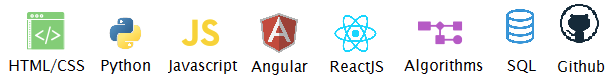
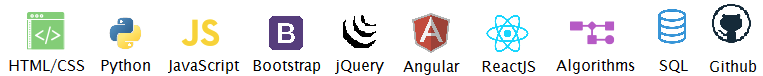
final draft

diff --git a/index.html b/index.html
@@ -1,51 +1,62 @@
 <!DOCTYPE html>
 <html lang="en">
-  <head>
-    <title>Kalyan Yalamanchi - Software Developer</title>
-    <link  type="text/css" rel="stylesheet" href="css/style.css">
-    <link href="https://fonts.googleapis.com/css?family=Arimo" rel="stylesheet">
-    <meta name="viewport" content="width=device-width, initial-scale=1">
-    <link rel="stylesheet" href="prism/prism-atom-dark.css" type="text/css" media="screen" />
-    <script type="text/javascript" src="prism/prism.js"></script>
-  </head>
-  <body>
-    <div class="about-container">
-      <div class="about">
-        <img src="images/me.jpg" alt="Kalyan Yalamanchi's photo" class="face">
-        <h1>Kalyan Yalamanchi</h1>
-        <h2>Software Developer</h2>
-        <hr class = "separator"/>
-        <p class="summary">A chemical engineer performing research turned software developer writing code.  Graduated from Princeton University with a BSE in Chemical Engineering and several years ago decided to change careers to pursue my passion in computer science.  My engineering background combined with self-taught programming knowledge makes me a perfect fit for an entry-level position.
-        </p>
-      </div>
-    </div>
-    <h3>Code Examples</h3>
-    <hr class ="title-break">
-    
-    <div class="box">
-      <h4>Temperature Conversion</h4>
-      <p class="code-text">
-        This ruby program will prompt the user for a temperature
-        in degrees Celsius and let the user know what the
-        corresponding temperature is in Fahrenheit.
+
+<head>
+  <title>Kalyan Yalamanchi - Software Developer</title>
+  <link type="text/css" rel="stylesheet" href="css/style.css">
+  <link href="https://fonts.googleapis.com/css?family=Arimo" rel="stylesheet">
+  <meta name="viewport" content="width=device-width, initial-scale=1">
+  <meta name="description" content="Kalyan Yalamanchi is a professional software developer specializing in front-end development.  He has experience with HTML/CSS, JavaScript, Python, jQuery, Bootstrap, React, and Angular along with SQL and Git knowledge.">
+  <link rel="stylesheet" href="prism/prism-atom-dark.css" type="text/css" media="screen" />
+  <script type="text/javascript" src="prism/prism.js"></script>
+  <script src="https://use.fontawesome.com/b1fc7cf11e.js"></script>
+</head>
+
+<body>
+  <div class="about-container">
+    <ul>
+      <li><a href="#about-me" class="nav-link">About</a></li>
+      <li><a href="#code-samples" class="nav-link">Code Samples</a></li>
+      <li><a href="#web-apps" class="nav-link">Web Apps</a></li>
+      <li><a href="#skills-tools" class="nav-link">Skills & Tools</a></li>
+      <li class="hire-me"><a href="#contact-me" class="nav-link">Hire Me</a></li>
+    </ul>
+    <div id="about-me" class="about">
+      <img src="images/me.jpg" alt="Kalyan Yalamanchi's photo" class="face">
+      <h1>Kalyan Yalamanchi</h1>
+      <h2>Software Developer</h2>
+      <hr class="separator" />
+      <p class="summary">
+        A chemical engineer performing research turned software developer writing code. Graduated from Princeton University with a BSE in Chemical Engineering and several years ago decided to change careers to pursue my passion in computer science. My engineering
+        background combined with self-taught programming knowledge makes me a perfect fit for an entry-level position.
       </p>
     </div>
-    <div class="box">
-      <pre><code class="language-javascript">
+  </div>
+
+  <h3 id="code-samples">Code Examples</h3>
+  <hr class="title-break">
+  <div class="box">
+    <h4>Temperature Conversion</h4>
+    <p class="code-text">
+      This ruby program will prompt the user for a temperature in degrees Celsius and let the user know what the corresponding temperature is in Fahrenheit.
+    </p>
+  </div>
+  <div class="box">
+    <pre><code class="language-javascript">
       var n = 0;
       while (n &lt; 10) {
         console.log(&quot;Hello, &quot; + n&quot;);
         n += 1;
       } </code></pre>
-    </div>
-    <br class="clear" />
-    
-    <div class="box">
-      <pre><code class="language-javascript"> 
+  </div>
+  <br class="clear" />
+
+  <div class="box">
+    <pre><code class="language-javascript">
       function findPrimes(n) {
         var primes = new Array(n+1).fill(true);
         var max = Math.sqrt(n);
-        
+
         for (i = 2; i &lt;= max; i++) {
           if (primes[i]) {
             for (j = i*i; j &lt;= n; j += i) {
@@ -62,23 +73,24 @@
         return list;
       }
       </code></pre>
-    </div>
-    <div class="box">
-      <h4>Prime Numbers</h4>
-      <p class="code-text">
-        This Javascript program returns an array of prime numbers up through an integer input n, using the Sieve of Eratosthenes algorithm.
-      </p>
-    </div>
-    <br class="clear" />
-    
-    <div class="box">
-      <h4>FizzBuzz</h4>
-      <p class="code-text">
-      Javascript program for the standard FizzBuzz interview question: Write a program that prints the numbers from 1 to n. But for multiples of three print "Fizz" instead of the number and for the multiples of five print "Buzz". For numbers which are multiples of both three and five print "FizzBuzz".
-      </p>
-    </div>    
-    <div class="box">
-      <pre><code class="language-javascript"> 
+  </div>
+  <div class="box">
+    <h4>Prime Numbers</h4>
+    <p class="code-text">
+      This Javascript program returns an array of prime numbers up through an integer input n, using the Sieve of Eratosthenes algorithm.
+    </p>
+  </div>
+  <br class="clear" />
+
+  <div class="box">
+    <h4>FizzBuzz</h4>
+    <p class="code-text">
+      Javascript program for the standard FizzBuzz interview question: Write a program that prints the numbers from 1 to n. But for multiples of three print "Fizz" instead of the number and for the multiples of five print "Buzz". For numbers which are multiples
+      of both three and five print "FizzBuzz".
+    </p>
+  </div>
+  <div class="box">
+    <pre><code class="language-javascript">
       var fizzBuzz = function(n) {
         var output;
         for (var i = 1; i &lt;= n; i ++)
@@ -93,15 +105,62 @@
         }
       };
       </code></pre>
-    </div>
-    <br class="clear" />
-    
-    <h3>Skills & Tools</h3>
-    <hr class="title-break" />
-    <p class="skills">
+  </div>
+  <br class="clear" />
+
+  <h3 id="web-apps">Web Apps</h3>
+  <hr class="title-break" />
+  <div class="box">
+    <h4>App #1</h4>
+    <a href="https://placeholder.com"><img src="http://via.placeholder.com/350x150" class="full-width" /></a>
+    <p>
+      A web application to be added later, using some mixture of HTML, CSS, JavaScript, jQuery, React, and Angular.
+    </p>
+  </div>
+  <div class="box">
+    <h4>App #2</h4>
+    <a href="https://placeholder.com"><img src="http://via.placeholder.com/350x150" class="full-width" /></a>
+    <p>
+      A web application to be added later, using some mixture of HTML, CSS, JavaScript, jQuery, React, and Angular.
+    </p>
+  </div>
+  <div class="box">
+    <h4>App #3</h4>
+    <a href="https://placeholder.com"><img src="http://via.placeholder.com/350x150" class="full-width" /></a>
+    <p>
+      A web application to be added later, using some mixture of HTML, CSS, JavaScript, jQuery, React, and Angular.
+    </p>
+  </div>
+  <div class="box">
+    <h4>App #4</h4>
+    <a href="https://placeholder.com"><img src="http://via.placeholder.com/350x150" class="full-width" /></a>
+    <p>
+      A web application to be added later, using some mixture of HTML, CSS, JavaScript, jQuery, React, and Angular.
+    </p>
+  </div>
+  <br class="clear" />
+
+  <h3 id="skills-tools">Skills & Tools</h3>
+  <hr class="title-break" />
+  <p class="skills">
     Kalyan has proficiency and knowledge of the following languages, frameworks, and tools.</p>
-    <div class="icons">
-      <img src="images/skills.png" alt="icons and names of programming languages and tools"/>
+  <div class="icons">
+    <img src="images/skills.png" alt="icons and names of programming languages and tools" />
+  </div>
+
+  <div class="contact">
+    <h3 id="contact-me" class="contact-headline">Contact</h3>
+    <hr class="title-break" />
+    <p class="contact-info">
+      Currently entertaining new opportunies. Please get in touch with me below:
+    </p>
+    <div class="buttons">
+      <a href="mailto:kyalaman@alumni.princeton.edu"><i class="fa fa-envelope-square fa-fw fa-inverse" aria-hidden="true"></i></a>
+      <a href="http://github.com/kyalaman"><i class="fa fa-github fa-fw fa-inverse" aria-hidden="true"></i></a>
+      <a href="http://www.linkedin.com/in/kyalaman/"><i class="fa fa-linkedin-square fa-fw fa-inverse" aria-hidden="true"></i></a>
     </div>
-  </body>
-</html> 
+  </div>
+
+</body>
+
+</html>

diff --git a/css/style.css b/css/style.css
@@ -5,14 +5,12 @@ body {
 }
 
 h1 {
-  color: white;
   font-size: 3em;
   margin-bottom: 0;
   font-weight: normal;
 }
 
 h2 {
-  color: white;
   font-size: 2em;
   margin-top: .3125rem;
 }
@@ -25,13 +23,49 @@ h3 {
   margin-bottom: .625rem;
 }
 
+p {
+  text-align: center;
+}
+
 h4 {
   text-align: center;
   font-size: 1.5rem;
 }
 
-.summary {
-  color: white;
+.nav-link {
+  text-decoration: none;
+}
+
+.about-container {
+  text-align: center;
+  color: black;
+}
+
+ul {
+  margin-left: auto;
+  margin-right: auto;
+  display: flex;
+  width: 50%;
+}
+
+a {
+  color: inherit;
+}
+
+.about-container li {
+  display: inline-block;
+  font-size: 1rem;
+  width: 8rem;
+  font-weight: bold;
+  margin-top: 1rem;
+  padding-top: 0.5rem;
+  padding-bottom: 0.5rem;
+  margin-left: 2rem;
+}
+
+.hire-me {
+  border-style: solid;
+  border-color: black;
 }
 
 .face {
@@ -41,7 +75,7 @@ h4 {
 }
 
 .about-container {
-  background: url('../images/bg2.jpeg') no-repeat top center fixed;
+  background: url('../images/bg.jpeg') no-repeat top center fixed;
   -webkit-background-size: cover;
   -moz-background-size: cover;
   -o-background-size: cover;
@@ -56,17 +90,17 @@ h4 {
   text-align: center;
   padding-top: .625rem;
   }
-  
+
 .separator {
-  height: .125rem;
-  background-color: white;
+  border: 2px double #f44e42;
+  width: 20rem;
+  border-right: none;
 }
 
 .title-break {
-  height: .625rem;
-  border: 0;
-  box-shadow: 0 .625rem .625rem -.625rem #0C12B0 inset;
-  width: 225px
+  border: 2px double #f44e42;
+  width: 14rem;
+  border-right: none;
 }
 
 .box {
@@ -93,4 +127,34 @@ h4 {
 .icons {
     text-align: center;
     padding-bottom: 2rem;
+    margin: 2rem;
+}
+
+.full-width {
+  width: 100%;
+}
+
+.contact {
+  height: 22rem;
+  padding-top: 2rem;
+  background-color: #202020;
+}
+
+.contact-headline {
+  color: white;
+}
+
+.contact-info {
+  color: white;
+  margin-top: 2rem;
+}
+
+.buttons {
+  text-align: center;
+  font-size: 2rem;
+}
+.fa {
+    padding: 1rem;
+    text-align: center;
+    text-decoration: none;
 }
